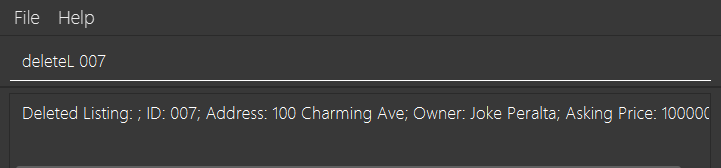
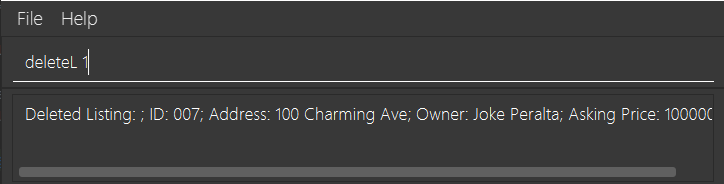
Fix DeleteL, Update UG

diff --git a/src/main/java/seedu/address/logic/commands/DeleteListingCommand.java b/src/main/java/seedu/address/logic/commands/DeleteListingCommand.java
@@ -2,12 +2,13 @@ package seedu.address.logic.commands;
 
 import static java.util.Objects.requireNonNull;
 
+import java.util.List;
+
 import seedu.address.commons.core.Messages;
+import seedu.address.commons.core.index.Index;
 import seedu.address.logic.commands.exceptions.CommandException;
 import seedu.address.model.Model;
 import seedu.address.model.listing.Listing;
-import seedu.address.model.listing.ListingId;
-import seedu.address.model.listing.exceptions.ListingNotFoundException;
 
 /**
  * Deletes a person identified using it's displayed index from the address book.
@@ -22,32 +23,31 @@ public class DeleteListingCommand extends Command {
 
     public static final String MESSAGE_DELETE_LISTING_SUCCESS = "Deleted Listing: %1$s";
 
-    private final ListingId id;
+    private final Index index;
 
-    public DeleteListingCommand(ListingId id) {
-        this.id = id;
+    public DeleteListingCommand(Index index) {
+        this.index = index;
     }
 
     @Override
     public CommandResult execute(Model model) throws CommandException {
         requireNonNull(model);
-        try {
-            Listing target = model.getListing(id);
-            model.deleteListing(target);
-            model.deleteOffersFor(target);
-            model.deleteMeetingsAbout(target);
-            return new CommandResult(String.format(MESSAGE_DELETE_LISTING_SUCCESS, target));
-        } catch (ListingNotFoundException le) {
+        List<Listing> lastShownList = model.getFilteredListingList();
+
+        if (index.getZeroBased() >= lastShownList.size()) {
             throw new CommandException(Messages.MESSAGE_INVALID_LISTING_ID);
         }
 
+        Listing listingToDelete = lastShownList.get(index.getZeroBased());
+        model.deleteListing(listingToDelete);
+        return new CommandResult(String.format(MESSAGE_DELETE_LISTING_SUCCESS, listingToDelete));
     }
 
     @Override
     public boolean equals(Object other) {
         return other == this // short circuit if same object
                 || (other instanceof DeleteListingCommand // instanceof handles nulls
-                && id.equals(((DeleteListingCommand) other).id)); // state check
+                && index.equals(((DeleteListingCommand) other).index)); // state check
     }
 }
 

diff --git a/src/main/java/seedu/address/logic/parser/DeleteListingCommandParser.java b/src/main/java/seedu/address/logic/parser/DeleteListingCommandParser.java
@@ -1,8 +1,8 @@
 package seedu.address.logic.parser;
 
+import seedu.address.commons.core.index.Index;
 import seedu.address.logic.commands.DeleteListingCommand;
 import seedu.address.logic.parser.exceptions.ParseException;
-import seedu.address.model.listing.ListingId;
 
 /**
  * Parses input arguments and creates a new DeleteCommand object
@@ -15,8 +15,8 @@ public class DeleteListingCommandParser implements Parser<DeleteListingCommand> 
      * @throws ParseException if the user input does not conform the expected format
      */
     public DeleteListingCommand parse(String args) throws ParseException {
-        ListingId id = ParserUtil.parseListingId(args.trim());
-        return new DeleteListingCommand(id);
+        Index index = ParserUtil.parseIndex(args.trim());
+        return new DeleteListingCommand(index);
     }
 
 }

diff --git a/src/main/java/seedu/address/model/listing/UniqueListingList.java b/src/main/java/seedu/address/model/listing/UniqueListingList.java
@@ -59,7 +59,7 @@ public class UniqueListingList implements Iterable<Listing> {
      */
     public Listing getListing(ListingId id) {
         for (Listing listing : internalList) {
-            if (listing.getId().equals(id)) {
+            if (listing.getId() == (id)) {
                 return listing;
             }
         }

diff --git a/docs/UserGuide.md b/docs/UserGuide.md
@@ -279,33 +279,26 @@ ___
 
 ### Deleting a listing : `deleteL`
 
-Format: `deleteL [l/ LISTING_ID]`
-* Deletes the listing with the given ListingId.
-* 
-    `LISTING_ID` refers to the ListingId of the listing you wish to delete.
+Format: `deleteL [id/INDEX]`
+* Deletes the listing with the given Index.
+* `INDEX` refers to the Index of the listing you wish to delete.
 
 <div markdown="span" class="alert alert-primary">:bulb: **Tip:**
-Note that you refer to the Listing you wish to delete by their ListingId instead of the index displayed.
-This was to ensure that you may freely delete Listings without referring to their displayed indexes.
+Note that you refer to the Index of the Listing in the displayed list.
 </div>
 
 Examples:
 
 _Success_
-* `deleteL l/007` Deletes the Listing with ListingId of `007`.
+* `deleteL id/1` Deletes the first Listing in the list.
 
 ![deleteL example](images/deleteL.png)
 
 _Failure_
-* `deleteL l/2356739457` Fails as there is no Listing with such ListingId.
+* `deleteL l/2356739457` Fails as the Index provided does not exist.
 
 ![deleteL Invalid ListingId example](images/deleteLInvalidId.png)
 
-* `deleteL 1` Fails as the parameter entered is an `Index` instead of `ListingId`.
-
-![deleteL Index example](images/deleteLIndex.png)
-
-[Back to top](#features).
 ___
 
 ### Deleting an offer : `deleteO`
